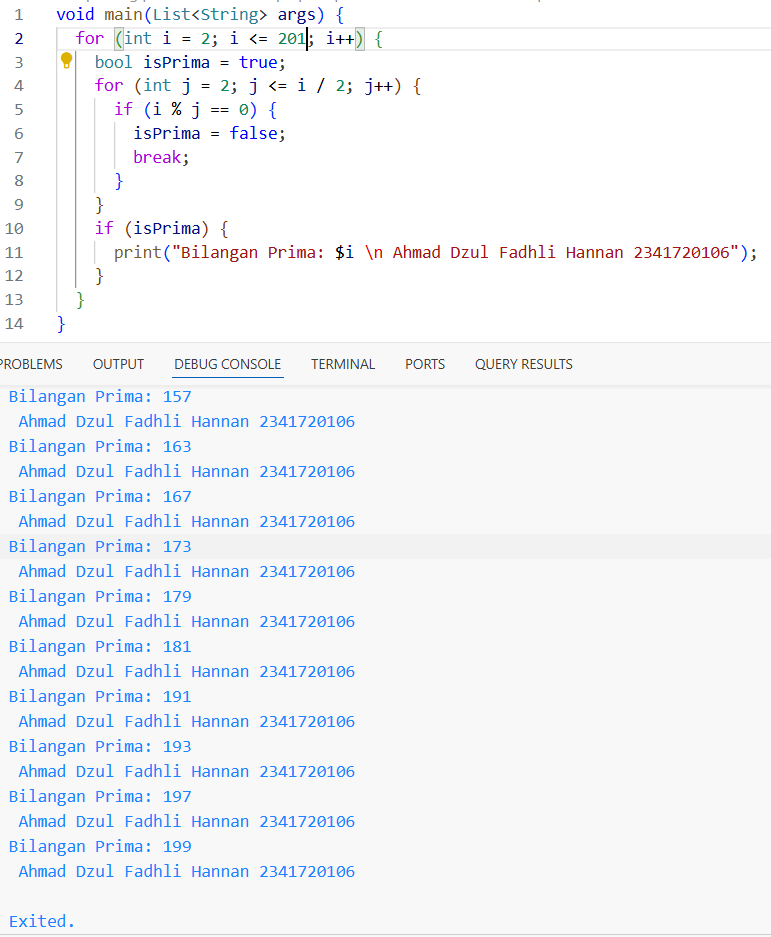
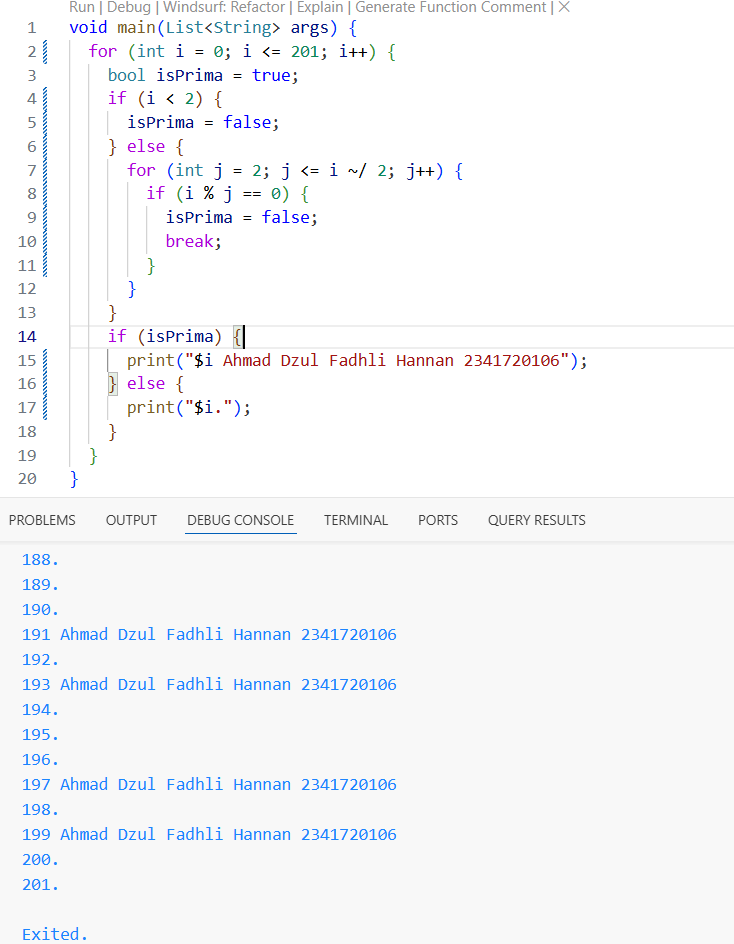
last

diff --git a/src/tugas.dart b/src/tugas.dart
@@ -1,14 +1,20 @@
 void main(List<String> args) {
-  for (int i = 2; i <= 201; i++) {
+  for (int i = 0; i <= 201; i++) {
     bool isPrima = true;
-    for (int j = 2; j <= i / 2; j++) {
-      if (i % j == 0) {
-        isPrima = false;
-        break;
+    if (i < 2) {
+      isPrima = false;
+    } else {
+      for (int j = 2; j <= i ~/ 2; j++) {
+        if (i % j == 0) {
+          isPrima = false;
+          break;
+        }
       }
     }
     if (isPrima) {
-      print("Bilangan Prima: $i \n Ahmad Dzul Fadhli Hannan 2341720106");
+      print("$i Ahmad Dzul Fadhli Hannan 2341720106");
+    } else {
+      print("$i.");
     }
   }
 }

diff --git a/README.md b/README.md
@@ -44,4 +44,4 @@ Tidak menampilkan perulangan angka karena semua kondisi tidak terpenuhi.
 ## Tugas  
 <img src="img/tugas.png">  
 Penjelasan program:  
-Setiap angka dalam rentang tersebut akan dicek apakah memiliki pembagi selain satu dan dirinya sendiri dengan menggunakan dua buah perulangan. Jika sebuah angka tidak memiliki pembagi selain satu dan dirinya sendiri, maka angka itu dinyatakan sebagai bilangan prima. Setiap kali bilangan prima ditemukan, program akan mencetaknya, beserta nama dan NIM .
+Menampilkan deretan angka dari 0 hingga 201, lalu melakukan pengecekan apakah setiap angka tersebut merupakan bilangan prima. Jika angka adalah bilangan prima, program akan mencetak angka tersebut diikuti dengan nama dan NIM, sedangkan untuk angka yang bukan bilangan prima hanya mencetak angkanya saja. Pengecekan bilangan prima dilakukan dengan mengasumsikan angka sebagai prima, kecuali angka kurang dari 2 atau memiliki pembagi selain 1 dan dirinya sendiri, yang dideteksi dengan perulangan dari 2 hingga setengah dari nilai angka tersebut. 
